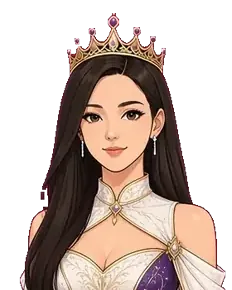
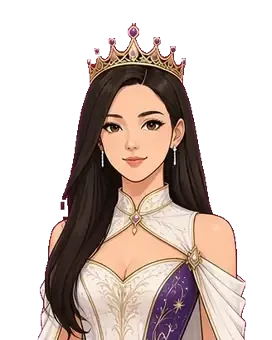
Widen the Showcase cover so the mobile frame keeps both shoulders.
The 232px crop left 6px beside the right shoulder and ended on the shoulder line. The new 272×340 crop uses the source width and ends below the shoulders.

diff --git a/tests/teammate-toy.spec.js b/tests/teammate-toy.spec.js
@@ -204,8 +204,8 @@ test.describe("showcase cover", () => {
         const img = page.locator("#showcase img");
         await img.scrollIntoViewIfNeeded();
         await expect(img).toHaveAttribute("src", "/images/showcase-galaxy-cover.webp");
-        await expect(img).toHaveAttribute("width", "232");
-        await expect(img).toHaveAttribute("height", "290");
+        await expect(img).toHaveAttribute("width", "272");
+        await expect(img).toHaveAttribute("height", "340");
         await img.evaluate((node) => (node.complete && node.naturalWidth > 0 ? null : node.decode()));
         const metrics = await img.evaluate((node) => {
           const frame = node.parentElement.getBoundingClientRect();
@@ -217,8 +217,8 @@ test.describe("showcase cover", () => {
             frameRatio: frame.width / frame.height,
           };
         });
-        expect(metrics.naturalWidth).toBe(232);
-        expect(metrics.naturalHeight).toBe(290);
+        expect(metrics.naturalWidth).toBe(272);
+        expect(metrics.naturalHeight).toBe(340);
         // The only current 銀河之女 bitmap is 273px wide. This cover is a native crop, not an upscale.
         expect(metrics.naturalWidth).toBeLessThan(800);
         expect(metrics.objectPosition).toBe("50% 50%");

diff --git a/src/i18n.jsx b/src/i18n.jsx
@@ -440,8 +440,8 @@ const dict = {
           href: "/prototype/teammate-type/",
           image: "/images/showcase-galaxy-cover.webp",
           imageAlt: "銀河之女",
-          imageWidth: 232,
-          imageHeight: 290,
+          imageWidth: 272,
+          imageHeight: 340,
           imageRatio: "4 / 5",
           objectPosition: "center",
         },
@@ -1157,8 +1157,8 @@ const dict = {
           href: "/prototype/teammate-type/",
           image: "/images/showcase-galaxy-cover.webp",
           imageAlt: "Daughter of the Galaxy",
-          imageWidth: 232,
-          imageHeight: 290,
+          imageWidth: 272,
+          imageHeight: 340,
           imageRatio: "4 / 5",
           objectPosition: "center",
         },
